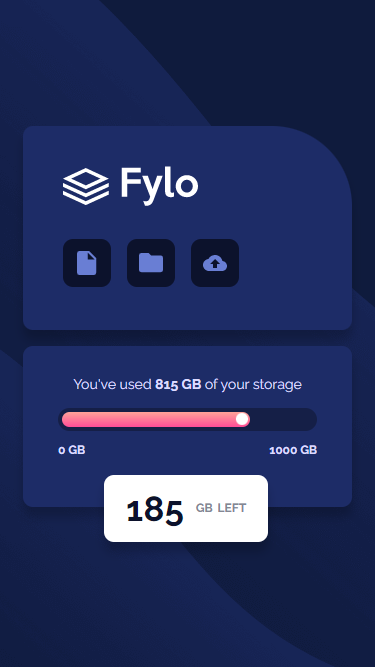
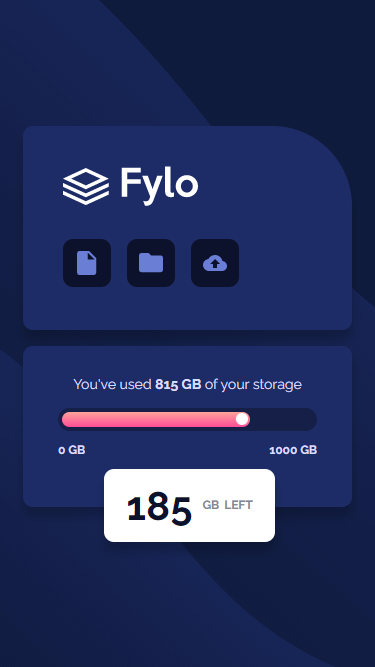
Fine-tuned style and queries, new screenshots

Changed region(s): [[0.264, 0.6897, 0.7333, 0.8096]]

diff --git a/Junior/Fylo-Data-Storage-Component/queries.css b/Junior/Fylo-Data-Storage-Component/queries.css
@@ -10,7 +10,7 @@
   }
 }
 
-@media (min-width: 700px) {
+@media (min-width: 820px) {
   body {
     align-items: center;
     background-image: url(images/bg-desktop.png);
@@ -43,8 +43,8 @@
   }
 
   .card__tooltip {
-    bottom: 13.5rem;
-    right: 6.5%;
+    bottom: 13.2rem;
+    right: 7%;
     border-radius: 10px 10px 0 10px;
   }
 
@@ -52,7 +52,7 @@
     content: "";
     position: absolute;
     right: 0rem;
-    top: 100%;
+    top: 98%;
     border: 1.2rem solid;
     border-color: white white transparent transparent;
   }

diff --git a/Junior/Fylo-Data-Storage-Component/style.css b/Junior/Fylo-Data-Storage-Component/style.css
@@ -194,10 +194,10 @@ body {
 
 .card__tooltip {
   bottom: -3.5rem;
-  right: 25.5%;
+  right: 23.5%;
   align-items: center;
   padding: 1.3rem 2.2rem;
-  gap: 1.2rem;
+  gap: 1rem;
   animation: 0.5s fade ease-in-out;
 }
 
@@ -211,7 +211,7 @@ body {
 }
 
 .tooltip__amount {
-  font-size: 3.5rem;
+  font-size: 4rem;
   color: var(--verydarkblue);
 }
 
